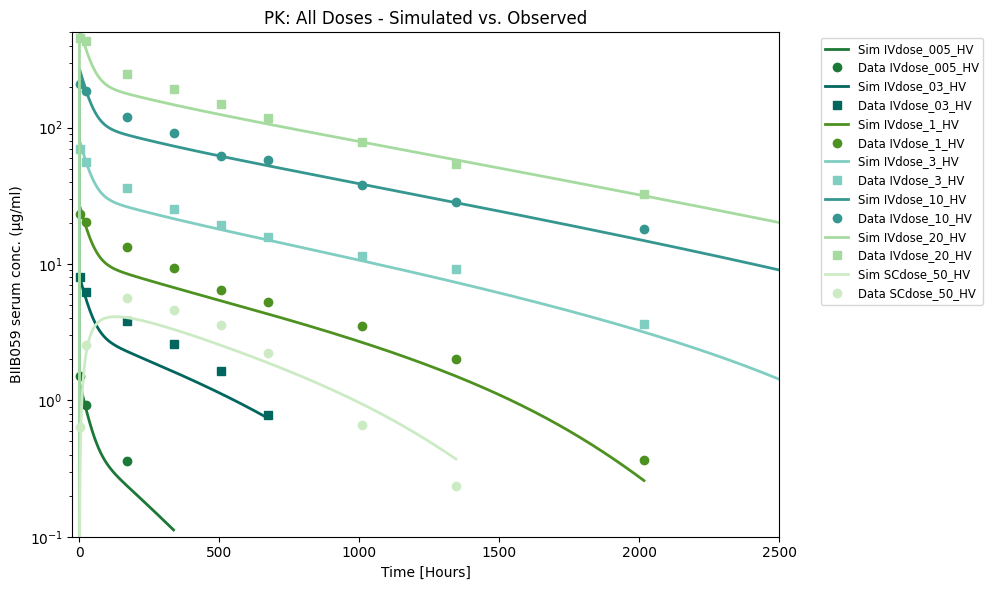
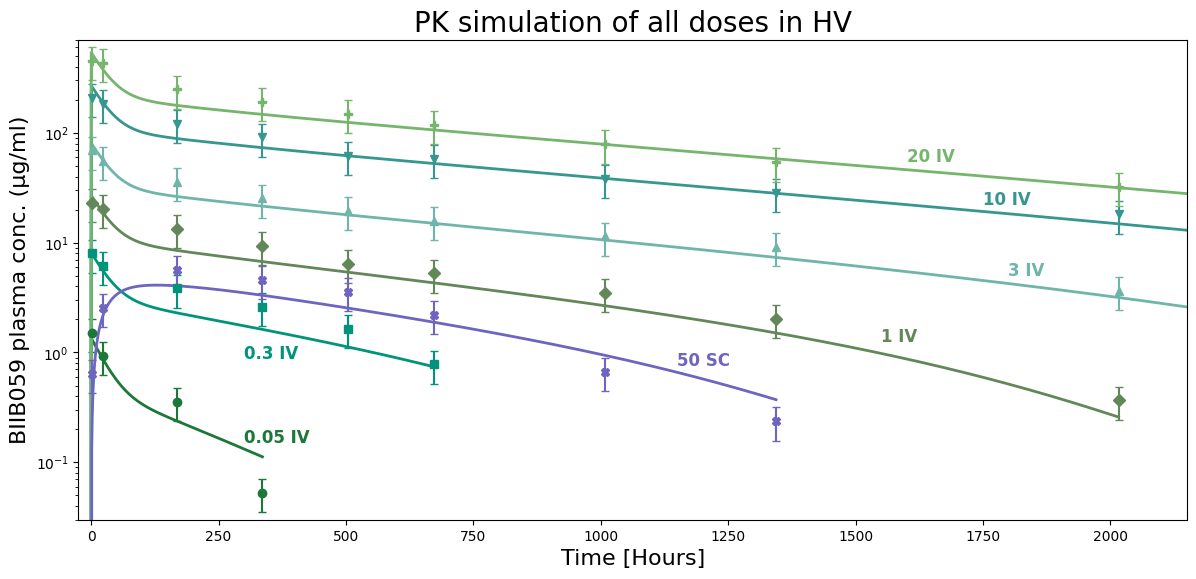
Ändrat så den plottar alla doser nu och allt blir typ grönt

diff --git a/Scripts/plot_PD_simulation.py b/Scripts/plot_PD_simulation.py
@@ -33,15 +33,18 @@ def plot_PD_dataset(PD_data, face_color='k'):
     plt.errorbar(PD_data['time'], PD_data['BDCA2_median'], PD_data['SEM'], linestyle='None', marker='o', markerfacecolor=face_color, color='k')
     plt.xlabel('Time [Hours]')
     plt.ylabel('BDCA2 levels on pDCs, percentage change from baseline. (µg/ml)')
+    plt.axhline(y=0, color='gray', linestyle='--', linewidth=1)
+    plt.text(10, 2, 'Baseline', color='gray', fontsize=8)
+
 
 # Definition of a function that plots the simulation
-def plot_sim(params, sim, timepoints, color='b', feature_to_plot='PD_sim'):
+def plot_sim(params, sim, timepoints, color='g', feature_to_plot='PD_sim'):
     sim.simulate(time_vector=timepoints, parameter_values=params, reset=True)
     feature_idx = sim.feature_names.index(feature_to_plot)
     plt.plot(sim.time_vector, sim.feature_data[:, feature_idx], color)
 
 # Definition of the function that plots all PD simulations and saves them to Results folder
-def plot_sim_with_PD_data(params, sims, PD_data, color='b', save_dir='../Results'):
+def plot_sim_with_PD_data(params, sims, PD_data, color='g', save_dir='../Results'):
     os.makedirs(save_dir, exist_ok=True)
 
     for experiment in PD_data:
@@ -51,11 +54,76 @@ def plot_sim_with_PD_data(params, sims, PD_data, color='b', save_dir='../Results
         plot_PD_dataset(PD_data[experiment])
         plt.title(experiment)
 
-        # Save figure with PD-specific name
+        # Save figures
         filename = f"PD_{experiment}_simulation.png"
         save_path = os.path.join(save_dir, filename)
         plt.savefig(save_path, bbox_inches='tight')
         plt.close()
+
+# Plot all PD simulations together
+def plot_all_PD_doses_together(params, sims, PD_data, time_vectors, save_dir='../Results', feature_to_plot='PD_sim'):
+    import os
+    os.makedirs(save_dir, exist_ok=True)
+    plt.figure(figsize=(12, 7))
+
+    # Färger för varje dos
+    colors = ['#1b7837', '#01947b', '#628759', '#70b5aa', '#76b56e', '#6d65bf']
+
+    # Kortare etiketter
+    dose_labels = {
+        'IVdose_005_HV': 'IV 0.05',
+        'IVdose_03_HV':  'IV 0.3',
+        'IVdose_1_HV':   'IV 1',
+        'IVdose_3_HV':   'IV 3',
+        'IVdose_20_HV':  'IV 20',
+        'SCdose_50_HV':  'SC 50'
+    }
+
+    # Manuella etikettpositioner (x, y) för varje kurva
+    label_positions = {
+        'IVdose_005_HV': (490, -40),
+        'IVdose_03_HV':  (1275, -50),
+        'IVdose_1_HV':   (2340, -40),
+        'IVdose_3_HV':   (3550, -30),
+        'IVdose_20_HV':  (5600, -45),
+        'SCdose_50_HV':  (1575, -70),
+    }
+
+    # Plotta varje simulering och etikett
+    for i, (experiment, color) in enumerate(zip(PD_data.keys(), colors)):
+        timepoints = time_vectors[experiment]
+        sim = sims[experiment]
+        sim.simulate(time_vector=timepoints, parameter_values=params, reset=True)
+        feature_idx = sim.feature_names.index(feature_to_plot)
+
+        y = sim.feature_data[:, feature_idx]
+        x = sim.time_vector
+
+        plt.plot(x, y, color=color, linewidth=2)
+
+        # Sätt etiketten på vald plats
+        if experiment in label_positions:
+            label_x, label_y = label_positions[experiment]
+            plt.text(label_x, label_y, dose_labels.get(experiment, experiment),
+                     color=color, fontsize=12, weight='bold')
+
+    # Axlar och stil
+    plt.xlabel('Time [Hours]', fontsize=16)
+    plt.ylabel('BDCA2 levels on pDCs (% change from baseline)', fontsize=16)
+    plt.title('PD simulation of all doses in HV', fontsize=20)
+    plt.axhline(y=0, color='gray', linestyle='--', linewidth=1.5)
+    plt.text(10, 2, 'Baseline', color='gray', fontsize=12.5)
+
+    plt.tight_layout()
+    plt.xlim(-100, 6500)
+    plt.yscale('linear')
+
+    # Spara och/eller visa
+    save_path = os.path.join(save_dir, "PD_all_doses_simulation.png")
+    plt.savefig(save_path, bbox_inches='tight')
+    # plt.show()  # Avkommentera för att testa visuellt innan export
+    plt.close()
+
 
 # Install and load model
 sund.install_model('../Models/mPBPK_model.txt')
@@ -91,7 +159,7 @@ first_model_sims = {
     'SCdose_50_HV': sund.Simulation(models=first_model, activities=SC_50_HV, time_unit='h')
 }
 
-time_vectors = {exp: np.arange(-10, PD_data[exp]["time"][-1] + 1000, 1) for exp in PD_data}
+time_vectors = {exp: np.arange(-10, PD_data[exp]["time"][-1] + 4000, 1) for exp in PD_data}
 
 def fcost(params, sims, PD_data):
     cost = 0
@@ -109,7 +177,7 @@ def fcost(params, sims, PD_data):
     return cost
 
 params_M1 = [0.679, 0.01, 2600, 1810, 6300, 4370, 2600, 10.29, 29.58, 80.96, 0.769, 0.95, 0.605, 0.2, 
-5.896, 13.9, 0.421, 1.09e-4, 5e-8, 8, 8, 0.525] # Optimized parameters both models
+5.896, 13.9, 0.421, 2.18e-4, 5e-8, 8, 8, 0.525] # Optimized parameters both models
 
 cost_M1 = fcost(params_M1, first_model_sims, PD_data)
 print(f"Cost of the M1 model: {cost_M1}")
@@ -119,4 +187,7 @@ chi2_limit = chi2.ppf(0.95, dgf)
 print(f"Chi2 limit: {chi2_limit}")
 print(f"Cost > limit (rejected?): {cost_M1 > chi2_limit}")
 
+# Callback to plot the simulation with PD data in both separate graphs and one graph
 plot_sim_with_PD_data(params_M1, first_model_sims, PD_data)
+plot_all_PD_doses_together(params_M1, first_model_sims, PD_data, time_vectors)
+

diff --git a/Scripts/plot_PK_simulation.py b/Scripts/plot_PK_simulation.py
@@ -35,13 +35,13 @@ def plot_PK_dataset(PK_data, face_color='k'):
     plt.ylabel('BIIB059 serum conc. (µg/ml)')
 
 # Definition of a function that plots the simulation
-def plot_sim(params, sim, timepoints, color='b', feature_to_plot='PK_sim'):
+def plot_sim(params, sim, timepoints, color='g', feature_to_plot='PK_sim'):
     sim.simulate(time_vector = timepoints, parameter_values = params, reset = True)
     feature_idx = sim.feature_names.index(feature_to_plot)
     plt.plot(sim.time_vector, sim.feature_data[:,feature_idx], color)
 
 # Definition of the function that plots all PK simulations and saves them to Results folder
-def plot_sim_with_PK_data(params, sims, PK_data, color='b', save_dir='../Results'):
+def plot_sim_with_PK_data(params, sims, PK_data, color='g', save_dir='../Results'):
     os.makedirs(save_dir, exist_ok=True)
 
     for experiment in PK_data:
@@ -60,20 +60,31 @@ def plot_sim_with_PK_data(params, sims, PK_data, color='b', save_dir='../Results
 # Save figure with all doses together
 def plot_all_doses_together(params, sims, PK_data, time_vectors, save_dir='../Results', feature_to_plot='PK_sim'):
     os.makedirs(save_dir, exist_ok=True)
-    plt.figure(figsize=(10, 6))
+    plt.figure(figsize=(12, 7))
 
-    # Färger med god kontrast
-    colors = [
-        '#1b7837', '#01665e', '#4d9221', '#80cdc1', '#35978f', '#a6dba0', '#ccebc5'
-    ]
+    colors = ['#1b7837', '#01947b', '#628759', '#70b5aa','#35978f', '#76b56e', '#6d65bf']
+    markers = ['o', 's', 'D', '^', 'v', 'P', 'X']
 
-    # Unika markörer för datapunkter
-    markers = ['o', 's', 'o', 's', 'o', 's', 'o']  # cirkel, kvadrat, diamant, triangel upp/ner, plus, kryss
+    dose_labels = {
+        'IVdose_005_HV': '0.05 IV',
+        'IVdose_03_HV':  '0.3 IV',
+        'IVdose_1_HV':   '1 IV',
+        'IVdose_3_HV':   '3 IV',
+        'IVdose_10_HV':  '10 IV',
+        'IVdose_20_HV':  '20 IV',
+        'SCdose_50_HV':  '50 SC'
+    }
 
-    while len(colors) < len(PK_data):
-        colors += colors
-    while len(markers) < len(PK_data):
-        markers += markers
+    # Manuella etikettpositioner (x, y) för varje kurva
+    label_positions = {
+        'IVdose_005_HV': (300, 0.15),
+        'IVdose_03_HV':  (300, 0.88),
+        'IVdose_1_HV':   (1550, 1.25),
+        'IVdose_3_HV':   (1800, 5),
+        'IVdose_10_HV':  (1750, 22),
+        'IVdose_20_HV':  (1600, 55),
+        'SCdose_50_HV':  (1150, 0.75),
+    }
 
     for i, (experiment, color) in enumerate(zip(PK_data.keys(), colors)):
         timepoints = time_vectors[experiment]
@@ -81,42 +92,48 @@ def plot_all_doses_together(params, sims, PK_data, time_vectors, save_dir='../Re
         sim.simulate(time_vector=timepoints, parameter_values=params, reset=True)
         feature_idx = sim.feature_names.index(feature_to_plot)
 
-        # Plotta simulering
+        # Simuleringslinje utan label
         plt.plot(sim.time_vector, sim.feature_data[:, feature_idx],
-                 label=f"Sim {experiment}", color=color, linewidth=2)
+                 color=color, linewidth=2, label=None)
 
-        # Plotta datapunkter utan felstaplar
+        # Plotta etikett med manuell positionering
+         # Sätt etiketten på vald plats
+        if experiment in label_positions:
+            label_x, label_y = label_positions[experiment]
+            plt.text(label_x, label_y, dose_labels.get(experiment, experiment),
+                     color=color, fontsize=12, weight='bold')
+
+        # Datapunkter
         marker = markers[i]
-        plt.plot(
-        PK_data[experiment]['time'],
-        PK_data[experiment]['BIIB059_mean'],
-        linestyle='None',
-        marker=marker,
-        markersize=6,
-        color=color,
-        label=f"Data {experiment}"
+        plt.errorbar(
+            PK_data[experiment]['time'],
+            PK_data[experiment]['BIIB059_mean'],
+            yerr=PK_data[experiment]['SEM'],
+            fmt=marker,
+            markersize=6,
+            color=color,
+            label=dose_labels.get(experiment, experiment),
+            linestyle='None',
+            capsize=3
         )
 
+    plt.xlabel('Time [Hours]', fontsize=16)
+    plt.ylabel('BIIB059 plasma conc. (µg/ml)', fontsize=16)
+    plt.title('PK simulation of all doses in HV', fontsize=20)
 
-    plt.xlabel('Time [Hours]')
-    plt.ylabel('BIIB059 serum conc. (µg/ml)')
-    plt.title('PK: All Doses - Simulated vs. Observed')
-    plt.legend(bbox_to_anchor=(1.05, 1), loc='upper left', fontsize='small')
     plt.tight_layout()
+    plt.subplots_adjust(bottom=0.25)
 
-    # Logaritmisk y-axel och fasta axelgränser
     plt.yscale('log')
-    plt.ylim(0.1, 500)
-    plt.xlim(-25, 2500)
+    plt.ylim(0.03, 700)
+    plt.xlim(-25, 2150)
 
     save_path = os.path.join(save_dir, "PK_all_doses_simulation.png")
     plt.savefig(save_path, bbox_inches='tight')
     plt.close()
 
 
-
 ## Setup of the model
-
 # Install the model
 sund.install_model('../Models/mPBPK_model.txt')
 print(sund.installed_models())
